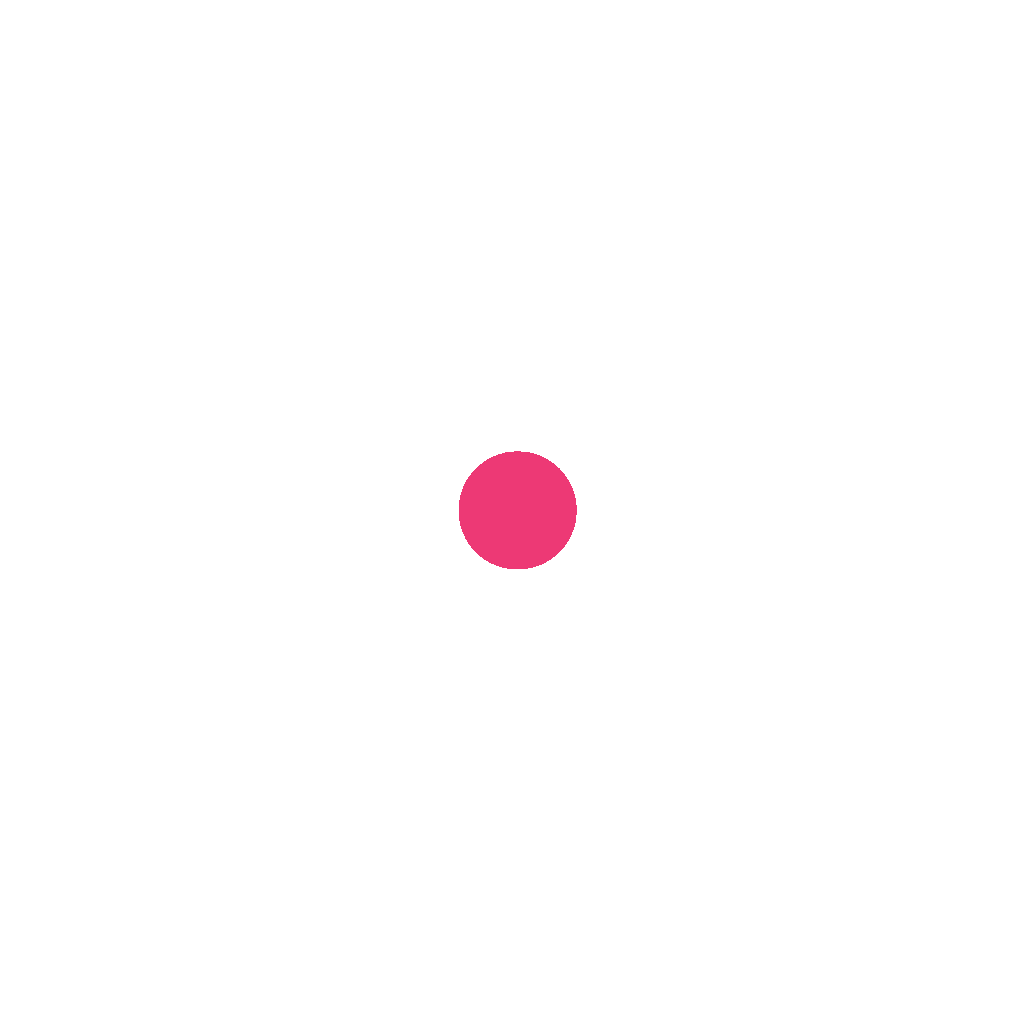
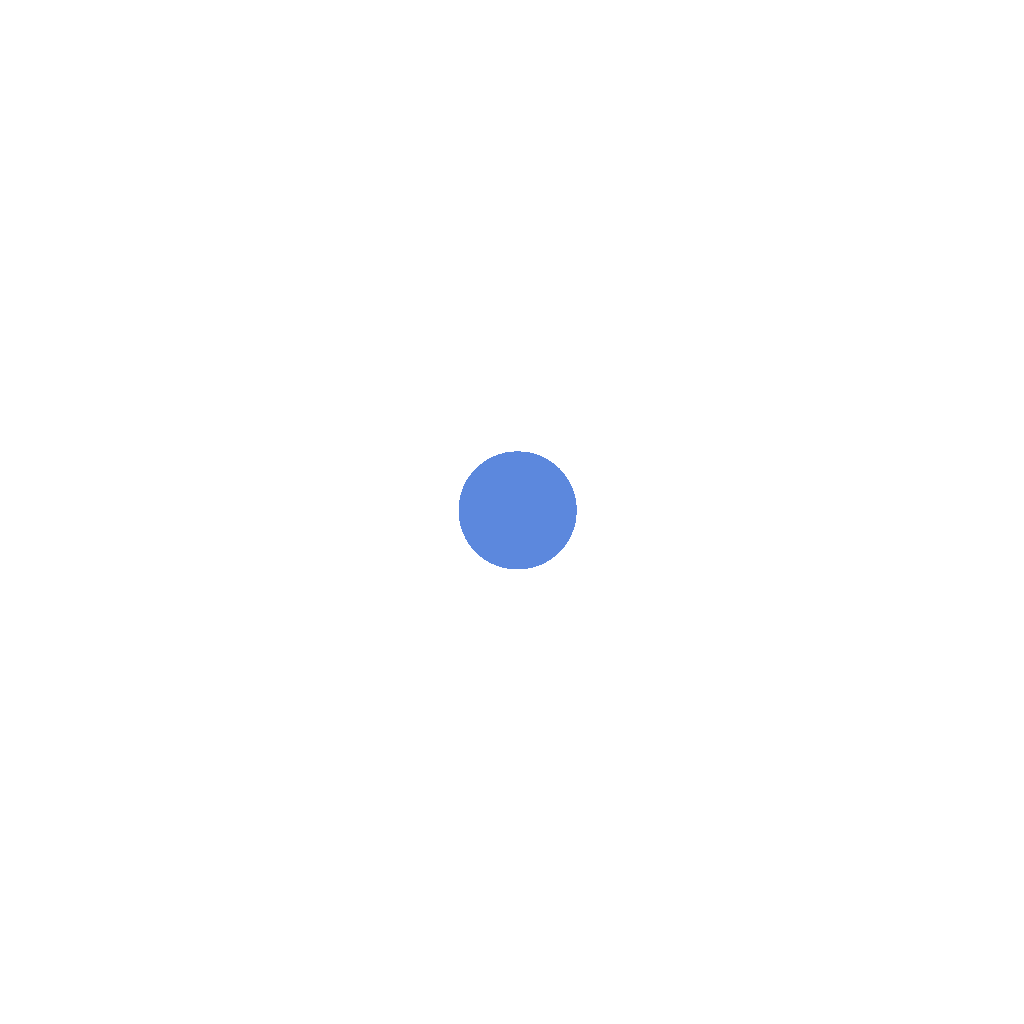
changed the color scheme of site

Changed region(s): [[0.4375, 0.4375, 0.5625, 0.5625]]

diff --git a/app/assets/stylesheets/components/_common.scss b/app/assets/stylesheets/components/_common.scss
@@ -97,7 +97,7 @@
   background-color: #ffa940 !important;
 }
 .btn-hot{
-  background: linear-gradient(to right,#f55a00, #ed9692, #f55a00) !important;
+  background: linear-gradient(to right,#f55a00, #1EBFFB, #f55a00) !important;
   border-radius: 50px !important;
   margin-bottom: -18px;
   padding: 6px 61px !important;
@@ -370,20 +370,20 @@ input:hover ~ .input-deals:after{
   max-width: 1400px;
 }
 .text-orange{
-  color: #ff524a;
+  color: #5c88dd;
 }
 .btn-dealslist{
   text-shadow: none !important;
   font-size: 18px !important;
 }
 .bg-light-pink{
-  background-color: #f8f2f4 !important; 
+  background-color: #e9f7ff !important; 
 }
 .bg-pink{
-  background: #fd5d60 !important;
+  background: #5c88dd !important;
 }
 .text-pink{
-  color: #ff524a !important;
+  color: #5c88dd !important;
 }
 .top-btn{
   color: white !important;
@@ -395,16 +395,16 @@ input:hover ~ .input-deals:after{
 .o-btn{
   border-radius: 50px !important;
   border: none !important;
-  background: -webkit-gradient(linear,left top,left bottom,from(#ed9692),to(#ff524a));
-  background: -moz-linear-gradient(top,#ed9692,#ff524a);
-  background: linear-gradient(to bottom, #ed9692, #ff524a) ;
+  background: -webkit-gradient(linear,left top,left bottom,from(#1EBFFB),to(#5c88dd));
+  background: -moz-linear-gradient(top,#1EBFFB,#5c88dd);
+  background: linear-gradient(to bottom, #1EBFFB, #5c88dd) ;
   text-shadow: #803c00 1px 1px 1px;
   font: 700 18px arial !important;
   height: 45px;
   &:hover{
-    background: -webkit-gradient(linear,left top,left bottom,from(#fd5d60),to(#fd5d60)) ;
-    background: -moz-linear-gradient(top,#fd5d60,#fd5d60) !important;
-    background: linear-gradient(to bottom,#fd5d60,#fd5d60)!important;
+    background: -webkit-gradient(linear,left top,left bottom,from(#5c88dd),to(#5c88dd)) ;
+    background: -moz-linear-gradient(top,#5c88dd,#5c88dd) !important;
+    background: linear-gradient(to bottom,#5c88dd,#5c88dd)!important;
   }
 }
 .box {
@@ -414,7 +414,7 @@ input:hover ~ .input-deals:after{
   font-size: 16px;
 }
 .detail-box {
-  background-color: #fd5d60;
+  background-color: #5c88dd;
   color: white !important;
   padding: 8px 0;
 }

diff --git a/app/assets/stylesheets/components/_clock_head.scss b/app/assets/stylesheets/components/_clock_head.scss
@@ -2,7 +2,7 @@
 .below-header {
   z-index: 2;
   padding-top: 24px;
-  background: linear-gradient(120deg, #e7dfdf 0%, #edc4c5 70%, #fd5d60 70%, #fd5d60 100%);
+  background: linear-gradient(120deg, #d2f2ff 0%, #68c6e9 70%, #59beef 70%, #5c88dd 100%);
   .accepted {
 	  color: #2b417f;
 	  font-family: Heebo;
@@ -56,7 +56,7 @@
     margin-bottom: 2rem;
   }
   .flip-clock-wrapper ul li a div div.inn {
-    background-color: #b40132;
+    background-color: #5c88dd;
     color: white;
   }
   .flip-clock-divider {

diff --git a/app/assets/stylesheets/components/_monthly_deal.scss b/app/assets/stylesheets/components/_monthly_deal.scss
@@ -6,7 +6,7 @@
   padding: 1rem;
   .promotion {
 	  color: #fff;
-	  background-color: #b53732;
+	  background-color: #5c88dd;
 	  box-shadow: 0 0 5px 2px rgba(0, 0, 0, 0.25), 0 0 1px 0 rgba(0, 0, 0, 0.15);
 	  padding: 0.625rem;
 	  text-align: center;

diff --git a/app/assets/stylesheets/components/_huge_prices_drop.scss b/app/assets/stylesheets/components/_huge_prices_drop.scss
@@ -1,5 +1,5 @@
 .offers-background {
-  background: linear-gradient(-80deg, #6ee0ff 0, #ff524a 100%);
+  background: linear-gradient(-80deg, #6ee0ff 0, #5c88dd 100%);
   height: auto;
   .offer-padding {
 	  padding: 45px 0px;

diff --git a/app/assets/stylesheets/components/_network_logos.scss b/app/assets/stylesheets/components/_network_logos.scss
@@ -1,6 +1,6 @@
 .networks-box {
   min-height: 100%;
-  background: #f66369;
+  background: #5c88dd;
   border-radius: 4px;
   border: 1px solid #d7dde2;
   padding: 1rem;
